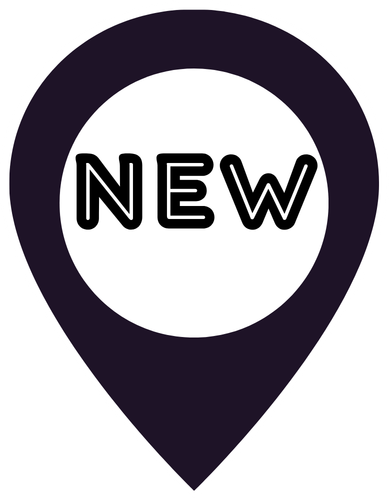
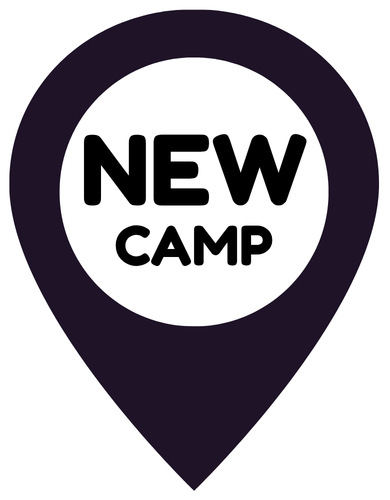
markers + changes + instructions

Changed region(s): [[0.1538, 0.09, 0.8615, 0.54], [0.1846, 0.42, 0.8615, 0.69]]

diff --git a/src/App.tsx b/src/App.tsx
@@ -229,15 +229,16 @@ export default function App() {
             alignItems: "center",
             justifyContent: "center",
             zIndex: 1000,
+            paddingInline: "1rem",
           }}
         >
           <button
             onClick={() => setStarted(true)}
             style={{
               padding: "12px 32px",
-              fontSize: 40,
+              fontSize: isMobile ? 30 : 40,
               fontWeight: 600,
-              background: "#111",
+              background: "#04800d",
               color: "white",
               border: "none",
               borderRadius: 8,
@@ -245,20 +246,92 @@ export default function App() {
               transition: "background 0.2s ease",
             }}
             onPointerEnter={(e) => {
-              (e.target as HTMLButtonElement).style.background = "#444";
+              (e.target as HTMLButtonElement).style.background = "#06ac11";
             }}
             onPointerLeave={(e) => {
-              (e.target as HTMLButtonElement).style.background = "#111";
+              (e.target as HTMLButtonElement).style.background = "#04800d";
             }}
             onPointerDown={(e) => {
-              (e.target as HTMLButtonElement).style.background = "#888";
+              (e.target as HTMLButtonElement).style.background = "#09dc17";
             }}
             onPointerUp={(e) => {
               (e.target as HTMLButtonElement).style.background = "#444";
             }}
           >
-            Explore Map
+            Explore 3D Map
           </button>
+          <div
+            style={{
+              padding: "20px 40px",
+              fontSize: isMobile ? 15 : 25,
+              fontWeight: 300,
+              background: "#3e3e3e",
+              color: "white",
+              border: "none",
+              borderRadius: 8,
+              marginBlockStart: "1rem",
+            }}
+          >
+            <h2>Instructions</h2>
+            {isMobile ? (
+              <div style={{ marginBlockStart: "0.5rem" }}>
+                <p>
+                  <b>Rotate</b> with Swipe Motion and <b>Pan</b> with Double
+                  Finger Swipe Motion.
+                </p>
+                <p>
+                  Use Scroll Functionality to <b>Zoom In</b> and <b>Zoom Out</b>
+                  .
+                </p>
+              </div>
+            ) : (
+              <div style={{ marginBlockStart: "0.5rem" }}>
+                <p>
+                  <b>Rotate</b> with Left Mouse Button and <b>Pan</b> with Right
+                  Mouse Button.
+                </p>
+                <p>
+                  Use Scroll Functionality to <b>Zoom In</b> and <b>Zoom Out</b>
+                  .
+                </p>
+              </div>
+            )}
+
+            {isMobile ? (
+              <div style={{ marginBlockStart: "1rem" }}>
+                <p>
+                  Tap on <b>Markers</b> to learn more information about a point
+                  of interest.
+                </p>
+                <p>
+                  Alternatively you can use the arrow icons to navigate between{" "}
+                  <b>Markers</b>.
+                </p>
+              </div>
+            ) : (
+              <div style={{ marginBlockStart: "1rem" }}>
+                <p>
+                  Click on <b>Markers</b> to learn more information about a
+                  point of interest.
+                </p>
+                <p>
+                  Alternatively you can use the arrow icons (or arrow keys) to
+                  navigate between <b>Markers</b>.
+                </p>
+              </div>
+            )}
+
+            <div style={{ marginBlockStart: "1rem" }}>
+              <p>
+                The <b>Filter Menu</b> on the top left can be used to filter{" "}
+                <b>Markers</b> by Category.
+              </p>
+              <p>
+                This interactive 3D experience can be used with common{" "}
+                <b>Web Accessibility (WCAG 2.2) Tools</b>.
+              </p>
+            </div>
+          </div>
         </div>
       ) : (
         <>
@@ -296,7 +369,7 @@ export default function App() {
               enablePan={true}
               enableZoom={true}
               enableRotate={true}
-              minDistance={20}
+              minDistance={5}
               maxDistance={500}
               maxPolarAngle={Math.PI / 2.5}
               ref={controlsRef}
@@ -422,7 +495,7 @@ export default function App() {
               boxShadow: "0 4px 32px rgba(0,0,0,0.18)",
               zIndex: 100,
               width: "min(600px, 90vw)", // wider, but responsive on mobile
-              opacity: activeMarker ? 1 : 0,
+              opacity: activeMarker ? 0.9 : 0,
               pointerEvents: activeMarker ? "auto" : "none",
               transition: "opacity 0.15s ease",
             }}

diff --git a/src/constants/markerData.ts b/src/constants/markerData.ts
@@ -259,7 +259,7 @@ export const MARKER_DATA: Record<
     description: "",
     category: "Amenities",
     markerType: "bar",
-    offset: [0.5, 0.5, -0.5],
+    offset: [0.5, 0.5, -0.25],
     scale: 0.75,
   },
   Bar_2: {
@@ -275,7 +275,7 @@ export const MARKER_DATA: Record<
     description: "",
     category: "Amenities",
     markerType: "portapotties",
-    offset: [0, 0, -0.75],
+    offset: [0, 0, -0.3],
     scale: 0.5,
   },
   Porta_Potties_2: {
@@ -284,6 +284,30 @@ export const MARKER_DATA: Record<
     category: "Amenities",
     markerType: "portapotties",
     offset: [1, 0, 3.5],
+    scale: 0.5,
+  },
+  Porta_Potties_3: {
+    name: "Porta Potties - Old Growth Forest",
+    description: "",
+    category: "Amenities",
+    markerType: "portapotties",
+    offset: [0, -0.5, -0.25],
+    scale: 0.5,
+  },
+  Porta_Potties_4: {
+    name: "Porta Potties - Rainbow bridge",
+    description: "",
+    category: "Amenities",
+    markerType: "portapotties",
+    offset: [0, 0.75, -0.25],
+    scale: 0.5,
+  },
+  Porta_Potties_4001: {
+    name: "Porta Potties - High Meadow",
+    description: "",
+    category: "Amenities",
+    markerType: "portapotties",
+    offset: [0, 0.25, 0],
     scale: 0.5,
   },
   Wellness_1: {
@@ -315,7 +339,7 @@ export const MARKER_DATA: Record<
     description: `Icy treats for a world on fire! Born on a New Orleans porch during 2020 by queer married drag/burlesque duo Kitten N' Lou, Chance In Hell SnoBalls has a cult following as an obsession-worthy community hub.`,
     category: "Amenities",
     markerType: "chance_in_sno",
-    offset: [0.75, 0.5, -0.25],
+    offset: [0.5, 0.5, 0.15],
     scale: 0.75,
   },
   Food_Court: {
@@ -459,5 +483,39 @@ export const MARKER_DATA: Record<
     markerType: "new_camp",
     offset: [0, 1, 0],
     scale: 2.5,
+  },
+
+  Gate_Main: {
+    name: "Main Camp Gate",
+    description: "",
+    category: "Areas",
+    markerType: "gate",
+    offset: [0, 1.25, 0],
+    scale: 1,
+  },
+  Gate_New: {
+    name: "New Camp Gate",
+    description: "",
+    category: "Areas",
+    markerType: "gate",
+    offset: [0, 0.5, 0.2],
+    scale: 1,
+  },
+
+  Parking_Main: {
+    name: "Main Camp Parking",
+    description: "",
+    category: "Areas",
+    markerType: "parking",
+    offset: [0, 0.5, 0],
+    scale: 1,
+  },
+  Parking_New: {
+    name: "New Camp Parking",
+    description: "",
+    category: "Areas",
+    markerType: "parking",
+    offset: [0, 2, 0],
+    scale: 1,
   },
 };

diff --git a/index.html b/index.html
@@ -3,6 +3,12 @@
   <head>
     <meta charset="UTF-8" />
     <link rel="icon" type="image/svg+xml" href="/favicon.svg" />
+    <link rel="preconnect" href="https://fonts.googleapis.com" />
+    <link rel="preconnect" href="https://fonts.gstatic.com" crossorigin />
+    <link
+      href="https://fonts.googleapis.com/css2?family=Roboto:wght@300;400;600;700&display=swap"
+      rel="stylesheet"
+    />
     <meta
       name="viewport"
       content="width=device-width, initial-scale=1, maximum-scale=1"

diff --git a/src/index.css b/src/index.css
@@ -10,6 +10,12 @@ body,
   width: 100%;
   height: 100%;
   overflow: hidden;
+  font-family:
+    Roboto,
+    -apple-system,
+    BlinkMacSystemFont,
+    "Segoe UI",
+    sans-serif;
 }
 
 @keyframes loading {

diff --git a/src/components/Markers.tsx b/src/components/Markers.tsx
@@ -31,6 +31,8 @@ const MARKER_SPRITES: Record<string, string> = {
   small_shower: "/HonchoMap/assets/markers/ToiletShowers.png",
   the_grove: "/HonchoMap/assets/markers/Grove.png",
   car_camping: "/HonchoMap/assets/markers/CarCamping.png",
+  parking: "/HonchoMap/assets/markers/Parking.png",
+  gate: "/HonchoMap/assets/markers/Gate.png",
 };
 
 // Remove LARGE_MARKERS — scale now comes from MARKER_DATA

diff --git a/src/components/BurgerMenu.tsx b/src/components/BurgerMenu.tsx
@@ -67,6 +67,7 @@ export default function BurgerMenu({
             padding: "12px 16px",
             boxShadow: "0 4px 24px rgba(0,0,0,0.15)",
             minWidth: 200,
+            opacity: 0.9,
           }}
         >
           <p

diff --git a/src/components/CreditsMenu.tsx b/src/components/CreditsMenu.tsx
@@ -54,6 +54,7 @@ export default function CreditsMenu({
             padding: "12px 16px",
             boxShadow: "0 4px 24px rgba(0,0,0,0.15)",
             minWidth: 200,
+            opacity: 0.9,
           }}
         >
           <p